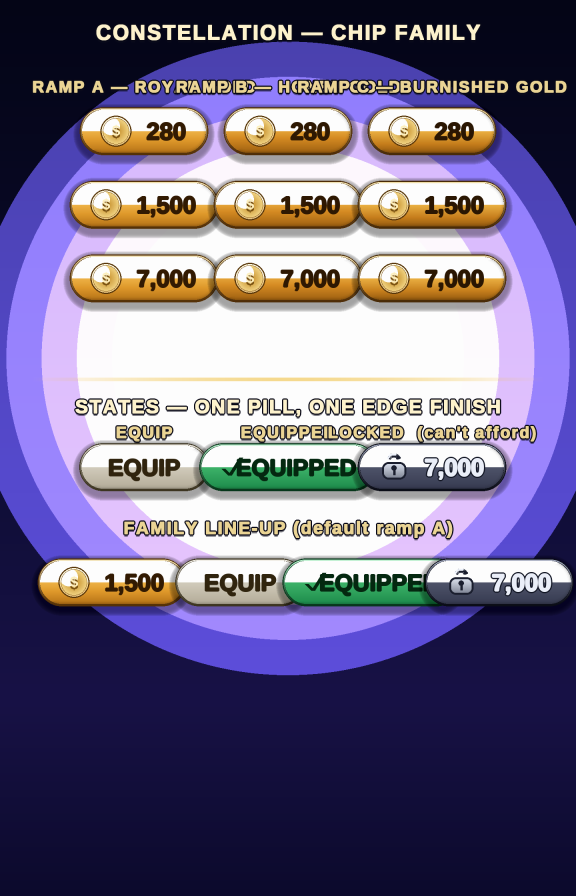
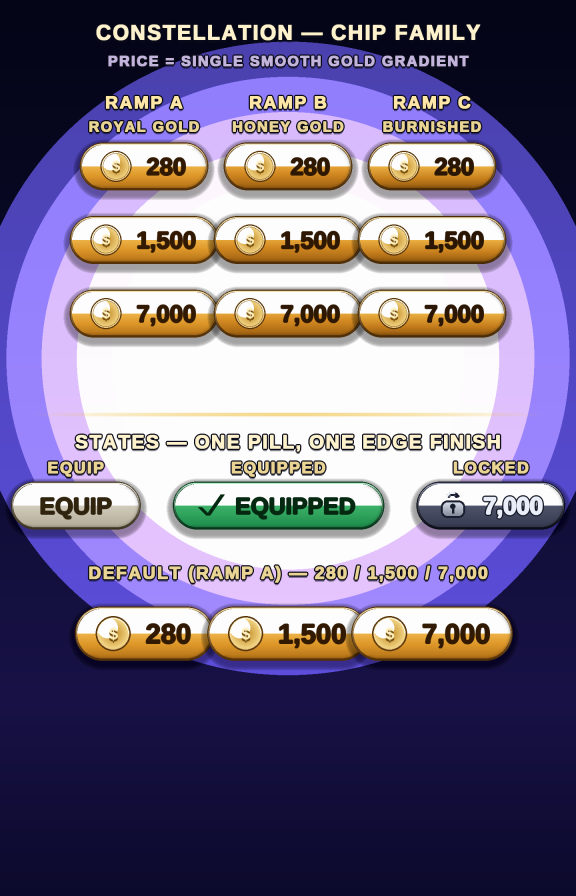
docs(store_redesign): finalize rarity/chips/controls_modal element notes + renders
Claude-Session: https://claude.ai/code/session_01VWgQuAkvyxHkg8ghp6aQ5y

diff --git a/docs/store_redesign/elements/chips/render.py b/docs/store_redesign/elements/chips/render.py
@@ -421,20 +421,26 @@ def status_chip(surf, cx, cy, text, h, kind="equip"):
     f = font(h * 0.48 / SS)
     nw = _glyph_base(text, f, 0).get_width() + m(2)
     pad = m(17)
-    w = pad * 2 + nw
-    r = pygame.Rect(cx - w // 2, cy - h // 2, w, h)
-    chip_body(surf, r, h // 2, top, bot, rim_dark, rim_bright, gloss=118)
     if kind == "equipped":
-        # a tiny check mark before the word so EQUIPPED reads as a confirmed
-        # state, sharing the cell-then-label rhythm of the price chip
-        cxk = r.x + pad - m(2)
-        plain_text(surf, text, f, (r.centerx + m(5), cy), num, shadow_a=0,
-                   weight=m(0.9))
-        ck = cxk
+        # a tiny check mark leads the word (the confirmed-state tell), sitting in
+        # its own cell with a clear gap before the label — the same cell->label
+        # rhythm as the price chip's coin
+        ckw = m(14)
+        gapc = m(7)
+        w = pad + ckw + gapc + nw + pad
+        r = pygame.Rect(cx - w // 2, cy - h // 2, w, h)
+        chip_body(surf, r, h // 2, top, bot, rim_dark, rim_bright, gloss=118)
+        ck = r.x + pad
         pygame.draw.lines(surf, num, False,
-                          [(ck, cy + m(1)), (ck + m(4), cy + m(5)),
-                           (ck + m(11), cy - m(6))], max(1, m(2.6)))
+                          [(ck, cy + m(1)), (ck + m(5), cy + m(6)),
+                           (ck + ckw, cy - m(7))], max(1, m(2.8)))
+        tx = ck + ckw + gapc
+        plain_text(surf, text, f, (tx + nw // 2, cy), num, shadow_a=0,
+                   weight=m(0.9))
     else:
+        w = pad * 2 + nw
+        r = pygame.Rect(cx - w // 2, cy - h // 2, w, h)
+        chip_body(surf, r, h // 2, top, bot, rim_dark, rim_bright, gloss=118)
         plain_text(surf, text, f, r.center, num, shadow_a=0, weight=m(0.9))
     return r
 
@@ -499,24 +505,35 @@ def render_sheet():
            col=(255, 244, 206))
 
     row_y = sy + m(40)
-    sx3 = [sw // 4, sw // 2, sw - sw // 4]
-    _label(surf, "EQUIP", sx3[0], row_y - m(24), size=10)
-    _label(surf, "EQUIPPED", sx3[1], row_y - m(24), size=10)
-    _label(surf, "LOCKED", sx3[2], row_y - m(24), size=10)
-    status_chip(surf, sx3[0], row_y, "EQUIP", ch, kind="equip")
-    status_chip(surf, sx3[1], row_y, "EQUIPPED", ch, kind="equipped")
-    price_chip(surf, sx3[2], row_y, "7,000", ch, ramp="A", state="locked")
+    # lay the three states out by measured width with even gaps so the wide
+    # EQUIPPED pill never crowds its neighbours
+    tmp = pygame.Surface((sw, ch * 3), pygame.SRCALPHA)
+    we = status_chip(tmp, sw // 2, ch * 1.5, "EQUIP", ch, kind="equip").w
+    wq = status_chip(tmp, sw // 2, ch * 1.5, "EQUIPPED", ch, kind="equipped").w
+    wl = price_chip(tmp, sw // 2, ch * 1.5, "7,000", ch, ramp="A", state="locked").w
+    sgap = m(20)
+    stotal = we + wq + wl + sgap * 2
+    sx = (sw - stotal) // 2
+    centers = []
+    for cw in (we, wq, wl):
+        centers.append(sx + cw // 2)
+        sx += cw + sgap
+    _label(surf, "EQUIP", centers[0], row_y - m(24), size=10)
+    _label(surf, "EQUIPPED", centers[1], row_y - m(24), size=10)
+    _label(surf, "LOCKED", centers[2], row_y - m(24), size=10)
+    status_chip(surf, centers[0], row_y, "EQUIP", ch, kind="equip")
+    status_chip(surf, centers[1], row_y, "EQUIPPED", ch, kind="equipped")
+    price_chip(surf, centers[2], row_y, "7,000", ch, ramp="A", state="locked")
 
-    # ── a 'family line-up' row: the default gold price beside its siblings so
-    #    the shared silhouette + double rim reads at a glance ──────────────────
-    line_y = row_y + m(58)
-    _label(surf, "FAMILY LINE-UP (default ramp A)", cx, line_y - m(20), size=11,
-           col=(236, 214, 150))
-    lx = [m(70), m(150), m(232), m(312)]
-    price_chip(surf, lx[0], line_y + m(14), "1,500", ch, ramp="A", state="afford")
-    status_chip(surf, lx[1], line_y + m(14), "EQUIP", ch, kind="equip")
-    status_chip(surf, lx[2], line_y + m(14), "EQUIPPED", ch, kind="equipped")
-    price_chip(surf, lx[3], line_y + m(14), "7,000", ch, ramp="A", state="locked")
+    # ── default-ramp price across the three target values, large, so the AD can
+    #    read the gold ramp + dark numerals at the size the chip actually ships ─
+    show_y = row_y + m(64)
+    _label(surf, "DEFAULT (RAMP A) — 280 / 1,500 / 7,000", cx, show_y - m(22),
+           size=11, col=(236, 214, 150))
+    bigh = m(34)
+    bx = [sw // 4, sw // 2, sw - sw // 4]
+    for x, v in zip(bx, ["280", "1,500", "7,000"]):
+        price_chip(surf, x, show_y + m(16), v, bigh, ramp="A", state="afford")
 
     return surf, (LW, LH)
 

diff --git a/docs/store_redesign/elements/rarity/render.py b/docs/store_redesign/elements/rarity/render.py
@@ -73,7 +73,9 @@ RARITY = {
     "epic":      {"gem": (194, 122, 248), "glow": (172, 94, 244),  "deep": (80, 34, 126)},
     "legendary": {"gem": (255, 202, 104), "glow": (255, 168, 58),  "deep": (150, 92, 22)},
 }
-MYSTERY = {"gem": (226, 232, 244), "glow": (196, 214, 236), "deep": (90, 98, 124)}
+# mystery kept neutral-cool but a step DARKER in value than common's pale
+# lilac so the two pale reads don't collapse to the same greyscale bar.
+MYSTERY = {"gem": (198, 208, 224), "glow": (172, 190, 216), "deep": (74, 82, 108)}
 
 TIERS = ["common", "rare", "epic", "legendary"]
 ORDER = TIERS + ["mystery"]
@@ -388,18 +390,17 @@ def card_corner(surf, x, y, w, h):
     return rect
 
 
-def grayscale_strip(surf, x, y, w, h):
-    """Take a slice of the rendered sheet, desaturate it (luma), and re-blit so
-    the colourblind-safety claim is PROVEN, not asserted: if two tiers collapse
-    to the same bar here, the colour read was a crutch."""
-    src = surf.subsurface(pygame.Rect(x, y, w, h)).copy()
+def grayscale_of(src):
+    """Desaturate a surface by luma so the colourblind-safety claim is PROVEN,
+    not asserted: if two tiers collapse to the same bar here, the colour read
+    was a crutch. Coarse grid sampling is plenty for a proof strip."""
+    w, h = src.get_size()
     gray = pygame.Surface((w, h))
     src.lock()
-    # column-luma is enough for a proof strip; sample a coarse grid for speed
     step = max(1, SS)
     for gy in range(0, h, step):
         for gx in range(0, w, step):
-            r, g, b, _ = src.get_at((gx, gy))
+            r, g, b = src.get_at((gx, gy))[:3]
             lum = int(0.299 * r + 0.587 * g + 0.114 * b)
             pygame.draw.rect(gray, (lum, lum, lum), (gx, gy, step, step))
     src.unlock()
@@ -415,7 +416,7 @@ def render_device():
     gem_band = m(150)
     label_band = m(40)
     proof_h = m(96)
-    thread_band = m(190)
+    thread_band = m(250)
     sheet_h = (title_h + gem_band + label_band + proof_h + m(34)
                + thread_band + pad)
 
@@ -427,16 +428,25 @@ def render_device():
                tracking=m(1), keyline=(10, 10, 24), kw=m(0.8))
 
     # ── ROW 1: the five tier gems at large SS-crisp scale (round brilliant) ───
+    # The gem row is rendered onto its OWN flat-ground strip so the greyscale
+    # proof below samples clean gems against an even value — not the uneven
+    # nebula bloom, which would corrupt the value-separation read. The same
+    # strip is then desaturated for the proof.
     gem_cy = title_h + gem_band // 2 + m(6)
     gem_r = m(40)
     strip_x = pad
     strip_y = gem_cy - gem_r - m(8)
     strip_h = gem_r * 2 + m(34)
+    strip_w = col_w * n
+    row = pygame.Surface((strip_w, strip_h))
+    row.fill((12, 13, 34))                          # flat neutral card-dark ground
+    row_cy = strip_h // 2
     for i, key in enumerate(ORDER):
-        cx = pad + col_w * i + col_w // 2
+        rcx = col_w * i + col_w // 2
         pal = pal_of(key)
-        soft_glow(surf, cx, gem_cy, int(gem_r * 1.5), pal["glow"], 40, layers=8)
-        gem_round(surf, cx, gem_cy, gem_r, pal, mystery=(key == "mystery"))
+        soft_glow(row, rcx, row_cy, int(gem_r * 1.5), pal["glow"], 40, layers=8)
+        gem_round(row, rcx, row_cy, gem_r, pal, mystery=(key == "mystery"))
+    surf.blit(row, (strip_x, strip_y))
 
     # tier word labels (the LANGUAGE), gem-tinted so name + colour agree
     lab_y = title_h + gem_band + m(8)
@@ -448,11 +458,11 @@ def render_device():
                    shadow_a=150, tracking=m(1), keyline=(8, 8, 20), kw=m(1.0))
 
     # ── ROW 2: grayscale proof strip (desaturate the gem row) ─────────────────
-    proof_y = lab_y + label_band - m(6)
+    proof_y = lab_y + label_band - m(2)
     plain_text(surf, "GRAYSCALE PROOF  (value separation — colourblind-safe)",
-               font(10), (sheet_w // 2, proof_y - m(2)), (200, 204, 220),
-               shadow_a=120, tracking=m(1))
-    gray = grayscale_strip(surf, strip_x, strip_y, col_w * n, strip_h)
+               font(10), (sheet_w // 2, proof_y - m(4)), (214, 218, 232),
+               shadow_a=160, tracking=m(1), keyline=(8, 8, 20), kw=m(0.7))
+    gray = grayscale_of(row)
     gp_y = proof_y + m(14)
     # frame + the desaturated gem row
     pygame.draw.rect(surf, (40, 42, 60), (strip_x - m(2), gp_y - m(2),

diff --git a/docs/store_redesign/elements/controls_modal/render.py b/docs/store_redesign/elements/controls_modal/render.py
@@ -348,8 +348,10 @@ def _bg_tile(w, h, seed=0):
     """A slice of the shared CONSTELLATION background for any sub-surface."""
     surf = pygame.Surface((w, h))
     surf.blit(multistop_v(w, h, BG_STOPS), (0, 0))
-    soft_glow(surf, w // 2, int(h * 0.42), int(min(w, h) * 0.7), NEBULA_GLOW,
-              58, layers=10)
+    # gentler, wider bloom on this landscape sheet so it doesn't read as hard
+    # concentric rings behind the chrome row (the live store is portrait).
+    soft_glow(surf, w // 2, int(h * 0.5), int(w * 0.55), NEBULA_GLOW,
+              34, layers=12)
     rnd = __import__("random").Random(70 + seed)
     for n, rmin, rmax, amin, amax in ((90, 0.4, 0.9, 30, 90),
                                        (36, 0.9, 1.6, 70, 150),
@@ -420,8 +422,11 @@ def main():
     R._build_static_bg()                           # primes shared bg caches
     sheet = render_sheet()
     sw, sh = sheet.get_size()
-    # one smoothscale down from SS author space to a crisp review target
-    out = pygame.transform.smoothscale(sheet, (int(sw / SS_), int(sh / SS_)))
+    # one smoothscale down from SS author space. Keep 1.6x logical detail so the
+    # SS-crisp edges + faceted gems survive on the review sheet.
+    zoom = 1.6
+    out = pygame.transform.smoothscale(
+        sheet, (int(sw / SS_ * zoom), int(sh / SS_ * zoom)))
     path = os.path.join(_HERE, "round_1.png")
     pygame.image.save(out, path)
     print("saved", path, out.get_size())

diff --git a/docs/store_redesign/elements/controls_modal/notes.md b/docs/store_redesign/elements/controls_modal/notes.md
@@ -1,0 +1,48 @@
+# CONSTELLATION store — CONTROLS + BUY MODAL (round 1)
+
+Element 8 of 8. Covers the action/nav chrome: the **BACK pill**, the
+`< PAGE 1/3 >` **page controls**, and the buy-confirmation **MODAL**. Built on
+the locked `constellation_hi/render_hi.py` pipeline (SS = 4 author canvas, one
+smoothscale down) and its material primitives — `vgrad`, `bevel_rim`,
+`gloss_sweep`, `drop_shadow`, `coin_glyph`, `cabochon`, `facet_gem`,
+faux-bold type — so this reads as the same screen as its siblings. Real epic
+item used throughout: **skin_phoenix** (PHOENIX, epic, 1,500).
+
+Render: `python render.py` → `round_1.png`. Pure pygame, both targets safe.
+
+## Shared chrome (top row)
+- **BACK pill** — fully-rounded premium pill with a left chevron, the locked
+  defined edge (dark outer keyline UNDER a bright top-left gold bevel), top
+  gloss + bottom-right AO. Shown in both finishes: the default dark-indigo
+  gradient (quiet, sits at the store's bottom margin) and an optional warm-gold
+  finish. Generous bottom margin is expressed by the caller's placement.
+- **Page controls** — `< PAGE n/total >` with a loud gold-pale label flanked by
+  two beveled arrow buttons sized ~40×30 logical (≈ a 44px physical tap target,
+  per Apple/Material), each double-rimmed and lit top-left. Two spreads shown.
+
+## Modal hierarchy (shared across all variants)
+~70% flat dark scrim → panel with a **defined double-gold edge** (bevel + a
+concentric inset gold rule) → heading "CONFIRM PURCHASE" + soft gold rule →
+glass-cabochon stage with the rarity gem **seated ON the dome rim** (centre on
+the bezel circle, never floating) → item NAME (bold) → rarity word → a single
+**single-gradient gold** price chip (per THEME directive) → BUY / CANCEL row.
+BUY is the primary CTA (right side per CTA convention): bright gold body, gloss
+sweep, outer halo + subtle inner top glow, dark label. CANCEL is one value step
+lighter than the panel (slate) so it's clearly separate but never competes.
+≥8px gap between buttons. Nothing clipped or cramped.
+
+## Variants (pick one panel/CTA treatment)
+- **V1 ROYAL** — canonical centered panel, symmetric equal-width BUY/CANCEL
+  pair. Cleanest, most neutral; the safe default.
+- **V2 WEIGHTED** — CTA-best-practice 60/40 row (BUY dominant, CANCEL a quiet
+  40% pill), heading on a recessed gold ribbon plate, BUY carries a coin glyph
+  for an explicit "spend" read. Most commercially aggressive.
+- **V3 CABOCHON-FORWARD** — enlarged/raised hero dome (R 50 vs 44), gem seated
+  higher on the rim, gold-bevel-wordmark heading, and a faint footer rule that
+  turns the action zone into a distinct shelf. Most "hero item" feel.
+
+Review PNG is 392 KB under `docs/` — clear of the 5 MB CI ceiling and excluded
+from the shipped bundle.
+
+Sources (CTA / modal conventions): LogRocket CTA best practices; DesignStudio
+CTA UX; Apple HIG / Material 44px tap target + 8px separation guidance.

diff --git a/docs/store_redesign/elements/rarity/notes.md b/docs/store_redesign/elements/rarity/notes.md
@@ -1,0 +1,41 @@
+# RARITY element — round 1
+
+Gem badge + 4-tier+mystery language + constellation thread for the CONSTELLATION
+store. Authored at SS=4 (one `smoothscale` down), reusing the locked palette and
+the `facet_gem` / `draw_const_thread` DNA from `constellation_hi/render_hi.py`.
+Pure pygame, both-target safe.
+
+## Sheet layout
+- **Row 1** — the five tier reads as large round-brilliant gems on a flat
+  card-dark strip (clean value ground), each over its locked tier glow, with the
+  tier WORD beneath in its own gem hue (name + colour agree).
+- **Row 2** — greyscale proof: Row 1 desaturated by luma. The five collapse to a
+  distinct value staircase, so the read survives a colourblind eye.
+- **Row 3** — the tapered gold thread + node star shown on placeholder dark card
+  corners across three cut variants, on the most-at-risk tiers, plus a
+  corner-size epic / mystery / common adjacency strip.
+
+## Tier value ramp (proven in the greyscale strip)
+- common — pale lilac-silver, low chroma, high value.
+- rare — mid cyan, clearly the darkest-but-one bar.
+- epic — saturated violet, dark value (reads heaviest of the cool three).
+- legendary — warm gold, brightest + warmest, the deliberate standout.
+- mystery — neutral cool silver, nudged a value step darker than common so the
+  two pale reads do NOT collapse to the same grey bar; claims no tier hue slot.
+
+Mystery's gem was retuned from (226,232,244) to (198,208,224) for exactly this
+separation — verify against common in the proof strip.
+
+## Per-variant (cut geometry; the value ramp is identical across all)
+- **A — round brilliant**: 4 kite crown facets + square table on a round girdle. The expected jewel; the reference cut, used for the five hero gems + proof.
+- **B — 8-facet brilliant**: octagonal girdle, 8 crown facets value-stepped by clock angle off the top-left light. Most scintillation; sells "precious" hardest.
+- **C — marquise**: tall pointed lens (rhombus) with a lozenge table; a directional jewel-cut silhouette that reads distinct from the round at a glance.
+- **D — emerald step**: concentric chamfered-rectangle steps; flattest, fewest thin diagonals, so it survives the downscale especially cleanly.
+
+## Epic-vs-mystery muddy check
+Both shown on real dark card corners (Row 3) and side by side at corner size
+(adjacency strip). Epic stays a saturated violet body with a dark seat; mystery
+stays a cool neutral silver — distinct by hue AND value at the smallest size.
+
+## Output
+`docs/store_redesign/elements/rarity/round_1.png` (794×632).
